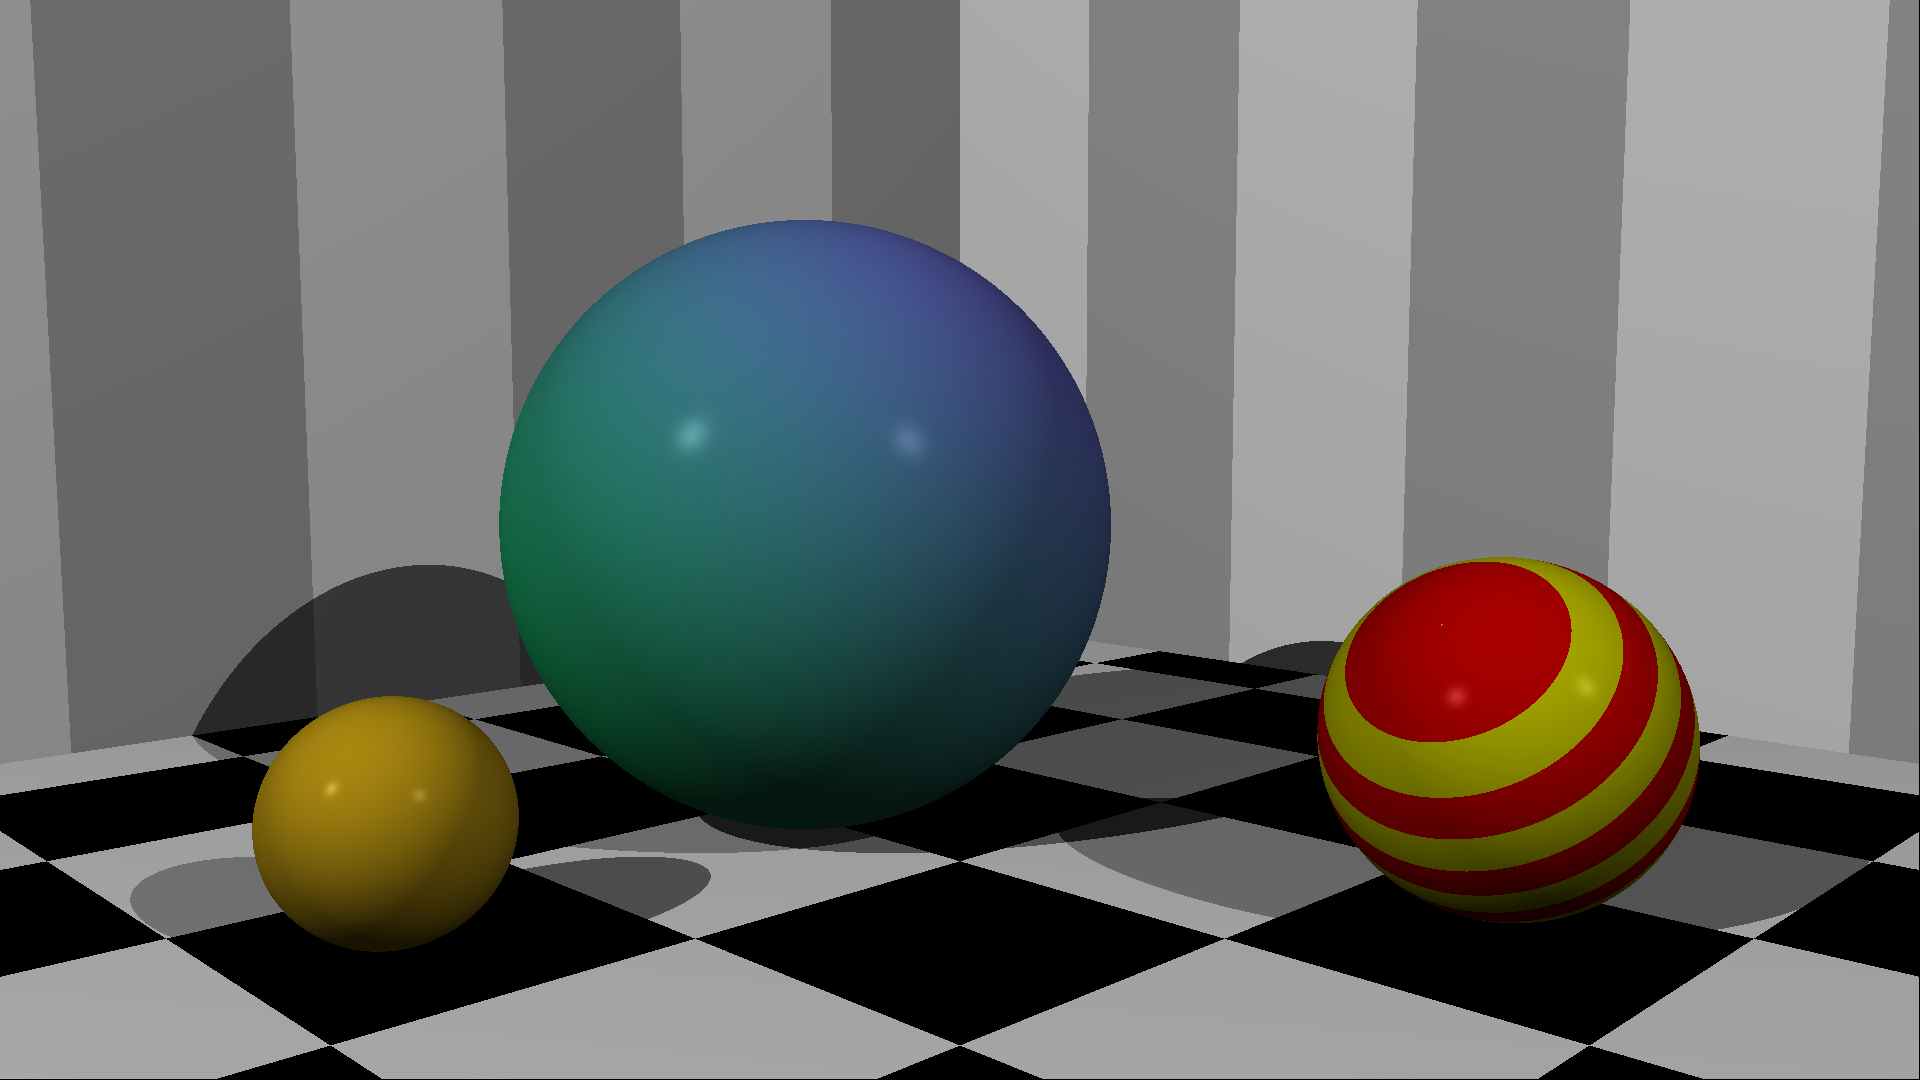
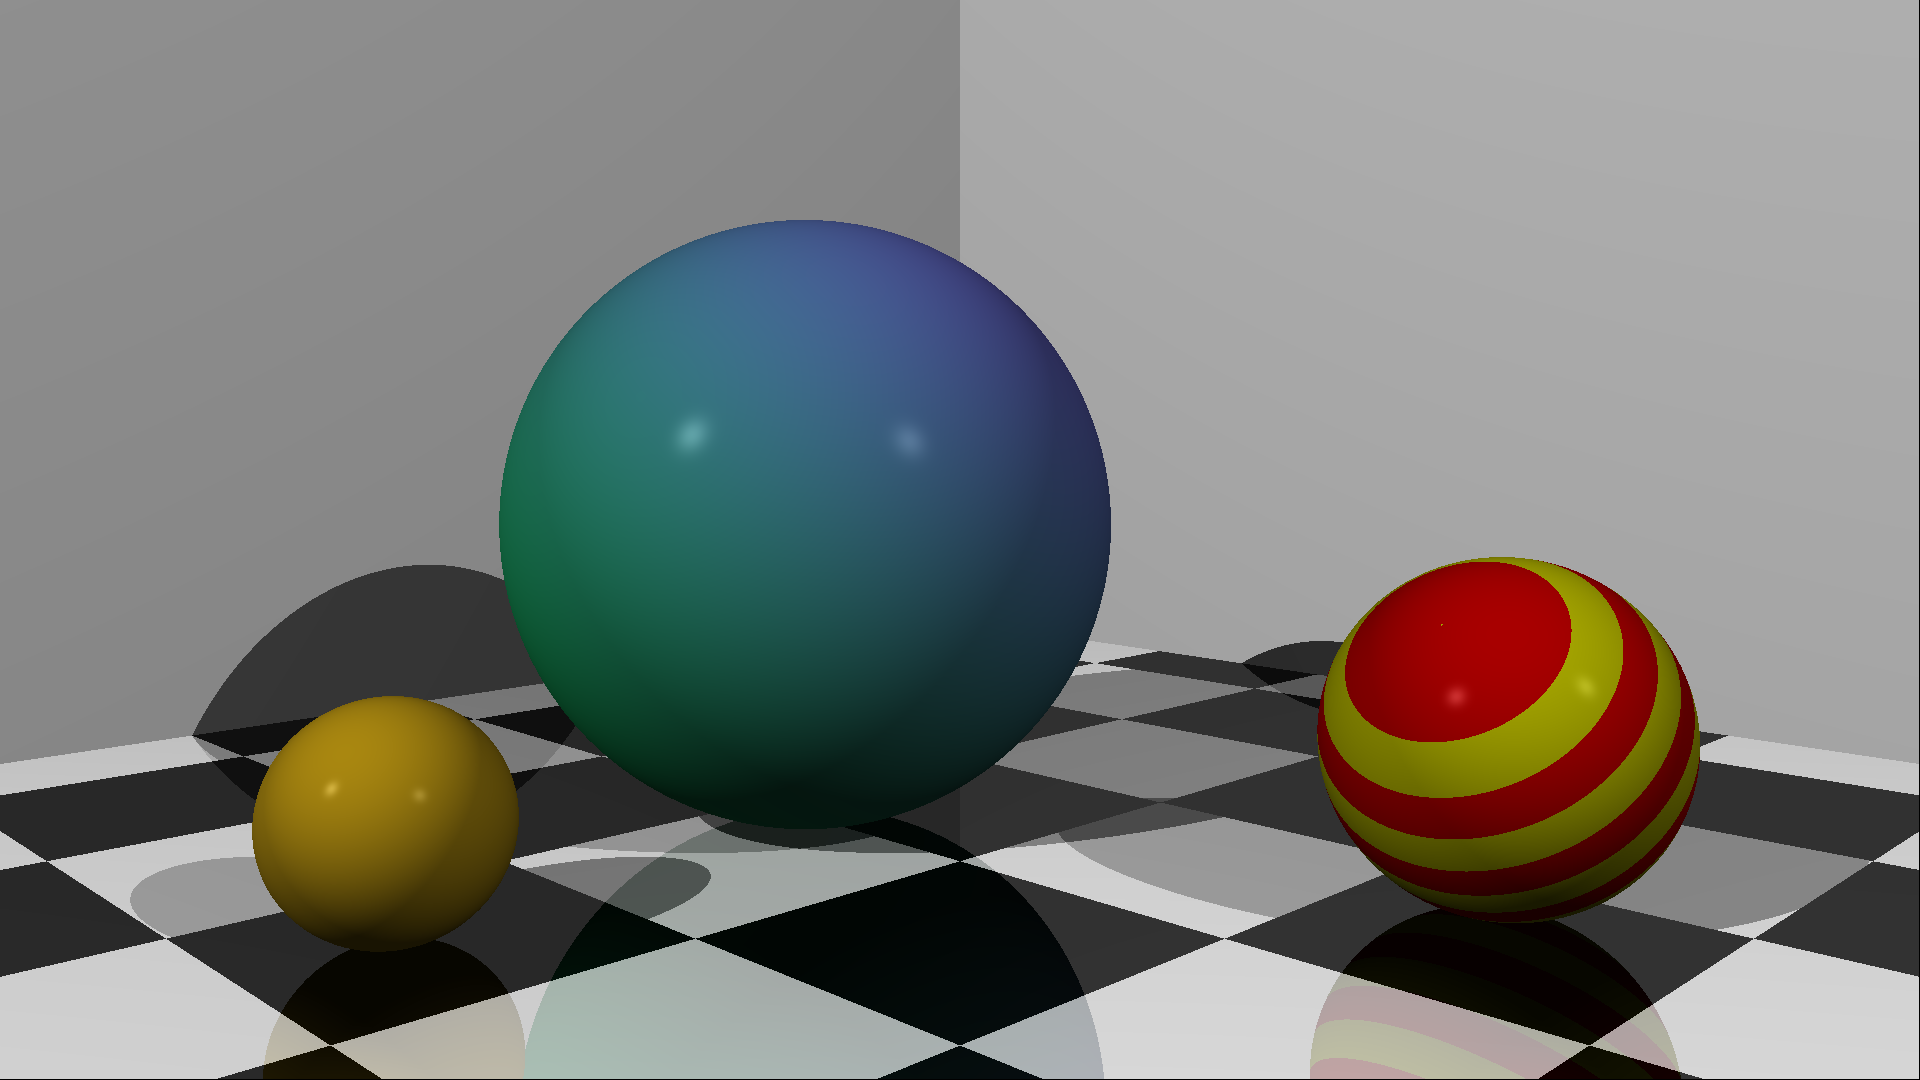
Update example03 with reflections

diff --git a/examples/example03.rs b/examples/example03.rs
@@ -1,7 +1,7 @@
 use std::f64::consts::PI;
 
 use glam::{dvec3, DMat4};
-use ray_tracer::{Camera, World, Object, shapes::{Sphere, Shape, Plane}, Color, Material, PointLight, transformations, Pattern, pattern::{PlainPattern, PatternObject, StrippedPattern, GradientPattern, RingPattern, CheckerPattern}};
+use ray_tracer::{Camera, World, Object, shapes::{Sphere, Shape, Plane}, Color, Material, PointLight, transformations, Pattern, pattern::{PlainPattern, PatternObject, StrippedPattern, GradientPattern, CheckerPattern}};
 
 fn main() {
     let l1 = PointLight::new(
@@ -13,11 +13,11 @@ fn main() {
         Color::white() * 0.4
     );
 
-    let m = Material::default()
+    let wall_material = Material::default()
         .with_pattern(
             PatternObject::new(
-                Pattern::Stripped(
-                    StrippedPattern::new(Color::white(), Color::new(0.75, 0.75, 0.75)))
+                Pattern::Plain(
+                    PlainPattern::new(Color::white()))
                 )
             )
         .with_specular(0.0);
@@ -25,6 +25,7 @@ fn main() {
     let floor = Object::new(Shape::Plane(Plane::default()))
         .with_material(
             Material::default()
+                .with_reflective(0.3)
                 .with_pattern(
                     PatternObject::new(
                         Pattern::Checker(
@@ -38,13 +39,13 @@ fn main() {
         );
 
     let left_wall = Object::new(Shape::Plane(Plane::default()))
-        .with_material(m.clone())
+        .with_material(wall_material.clone())
         .with_rotation_x(PI/2.0)
         .with_rotation_y(-PI/4.0)
         .with_translation(0.0, 0.0, 5.0);
 
     let right_wall = Object::new(Shape::Plane(Plane::default()))
-        .with_material(m.clone())
+        .with_material(wall_material.clone())
         .with_rotation_x(PI/2.0)
         .with_rotation_y(PI/4.0)
         .with_translation(0.0, 0.0, 5.0);
